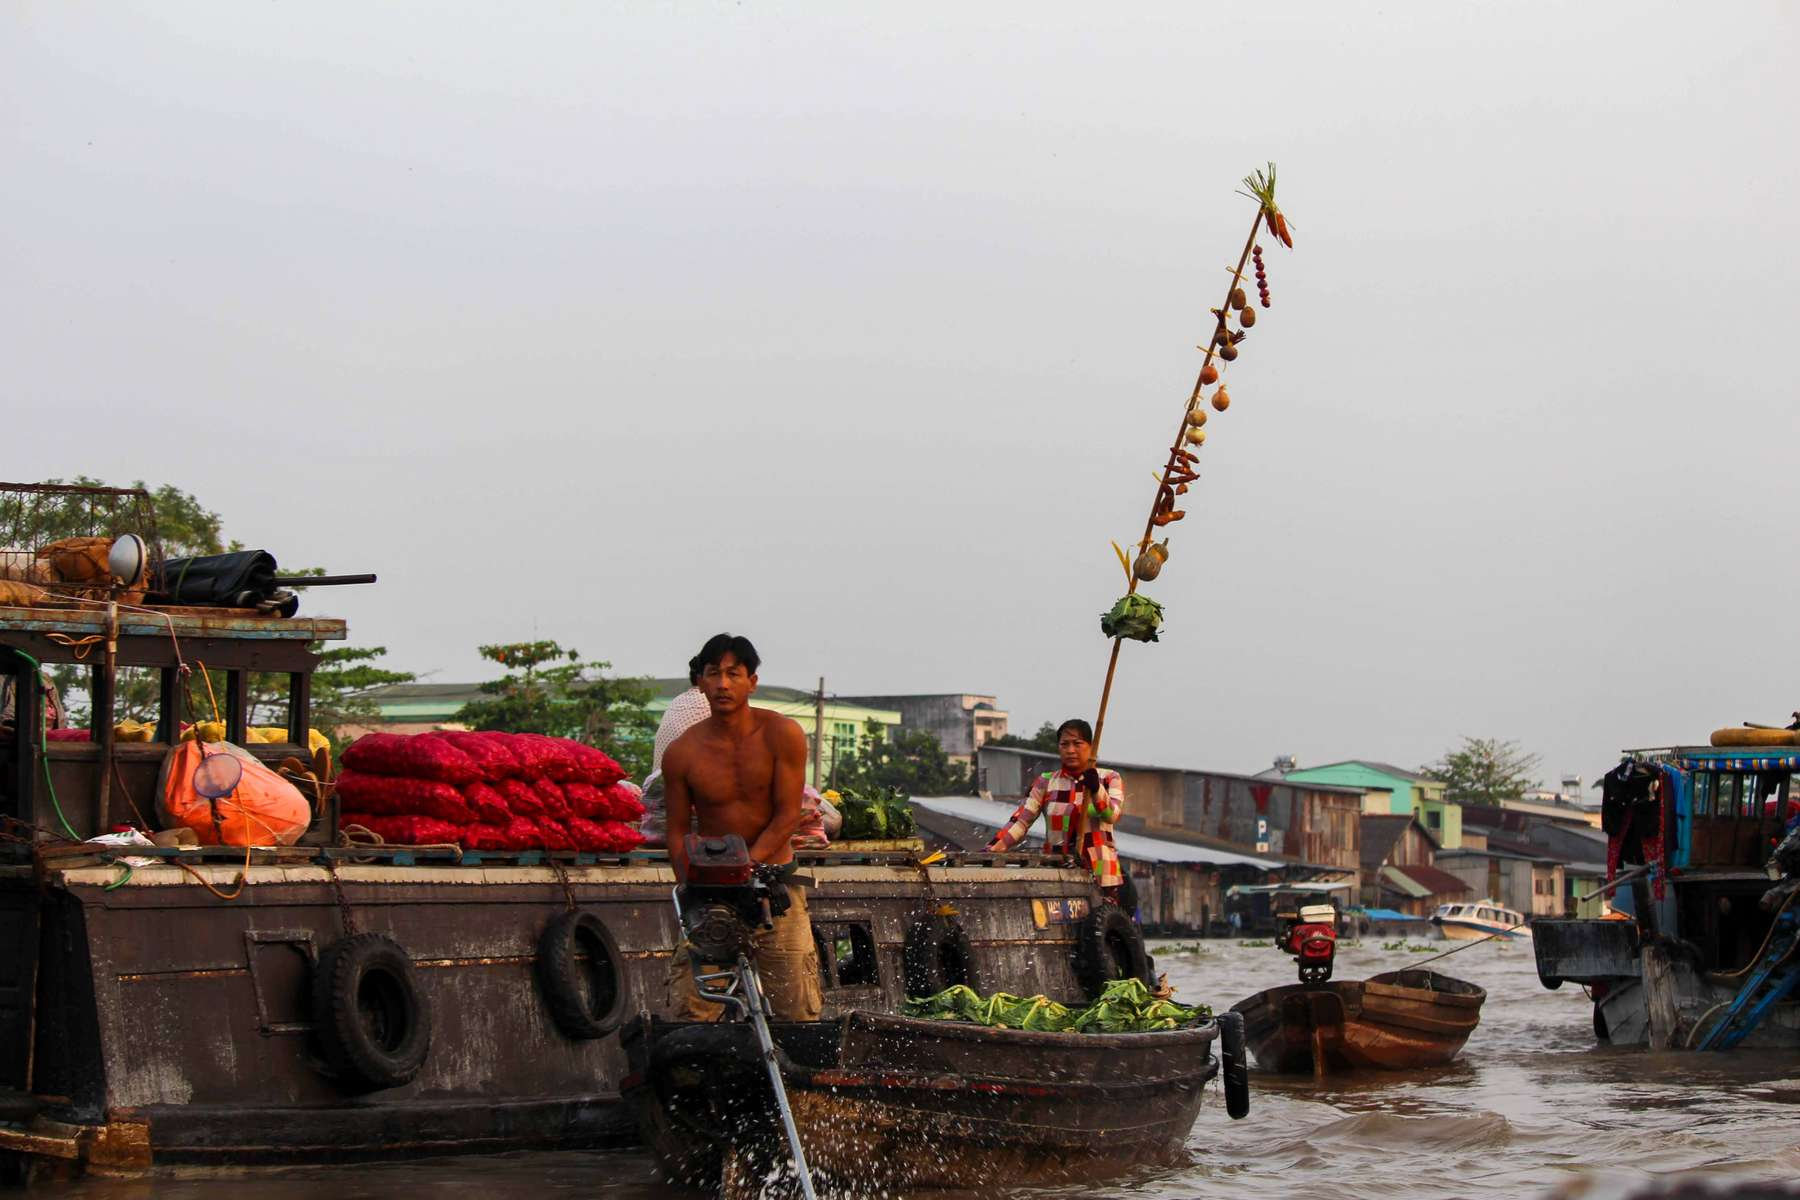
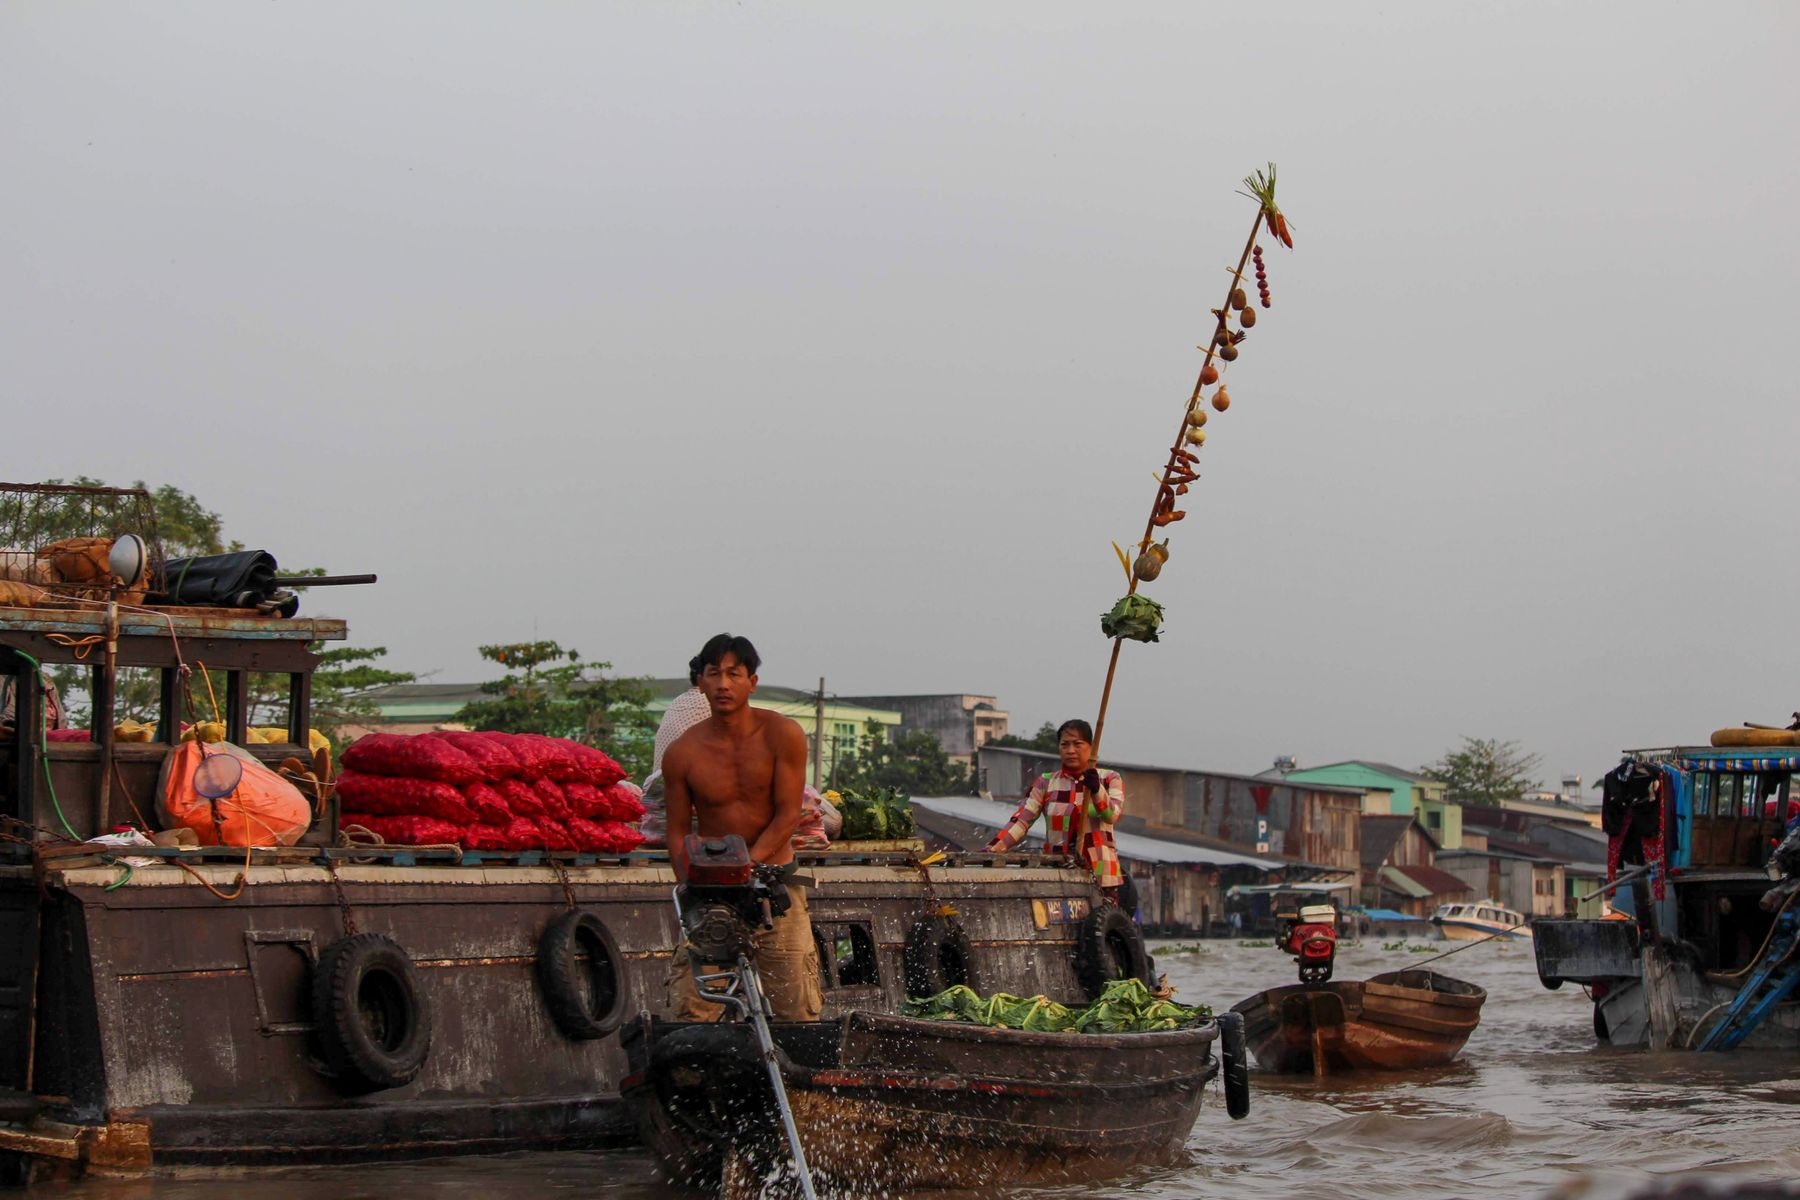
feat: update can tho

diff --git a/src/pages/asia/vietnam/southern-vietnam/can-tho.tsx b/src/pages/asia/vietnam/southern-vietnam/can-tho.tsx
@@ -8,6 +8,7 @@ import translationFr from "../../../../locales/fr/asia/vietnam/southern-vietnam/
 import translationEn from "../../../../locales/en/asia/vietnam/southern-vietnam/can-tho.json"
 import { VietnamBlogLayout, VietnamHeadline } from "../../../../components/core/asia/vietnam/vietnam"
 import {
+  Covid,
   How,
   HowLong,
   HowMuch,
@@ -34,6 +35,15 @@ import { CanThoImages } from "../../../../components/images/asia/vietnam/souther
 import styled from "@emotion/styled"
 import { Title } from "../../../../components/core/title"
 import { Quote } from "../../../../components/core/quote"
+import { ApplicationContext } from "../../../../components/application"
+import { useContext } from "react"
+import { css } from "@emotion/react"
+import { GetYourGuideCard } from "../../../../components/core/get-your-guide"
+import { BookingGygCardContainer } from "../../../../components/layout/layout"
+import { BookingCard, BookingWarning } from "../../../../components/core/booking"
+import winterSpringColorsHouse from "../../../../images/asia/vietnam/southern-vietnam/can-tho/winter-spring-colors-house.jpg"
+import queenieHouse from "../../../../images/asia/vietnam/southern-vietnam/can-tho/queenie-house.jpg"
+import greenVillageMekong from "../../../../images/asia/vietnam/southern-vietnam/can-tho/green-village-mekong.jpg"
 
 const namespace = "asia/vietnam/southern-vietnam/can-tho"
 const id = "can-tho"
@@ -45,12 +55,14 @@ const InsideQuote = styled.p`
 `
 
 const IndexPage: React.FunctionComponent<PageProps> = ({ location }) => {
+  const { covid } = useContext(ApplicationContext)
   const { t, i18n } = useCustomTranslation([namespace, "common"])
   const title = t(`common:country.vietnam.card.${id}`)
   return (
     <>
       <SEO
         title={title}
+        fullTitle={t("full-title")}
         socialNetworkDescription={t("social-network-description")}
         googleDescription={t("google-description")}
         image={HomeImgUrl}
@@ -89,9 +101,89 @@ const IndexPage: React.FunctionComponent<PageProps> = ({ location }) => {
           <p>{t("how-much.part2")}</p>
           <p>{t("how-much.part3")}</p>
           <p>{t("how-much.part4")}</p>
+          <p>{t("how-much.part5")}</p>
+          <BookingGygCardContainer>
+            <GetYourGuideCard
+              to="h-chi-minh-ville-l272/circuit-de-2-jours-en-petit-groupe-au-delta-du-mkong-avec-t125249"
+              title={
+                i18n.languageCode === "fr"
+                  ? "Excursion de 2 jours dans le delta du Mékong et le marché flottant"
+                  : "Mekong Delta and Floating Market 2-Day Small Group Tour"
+              }
+              rating={4.2}
+              image="https://cdn.getyourguide.com/img/tour/5e58ba1e4b64e.jpeg/38"
+              price={96}
+              duration={{ value: 2, unit: "day" }}
+              groupSize="small"
+            />
+            <GetYourGuideCard
+              to="h-chi-minh-ville-l272/march-flottant-de-cai-rang-et-delta-du-mkong-2-jours-t111085"
+              title={
+                i18n.languageCode === "fr"
+                  ? "Marché flottant de Cai Rang et delta du Mékong"
+                  : "Cai Rang Floating Market and Mekong Delta"
+              }
+              rating={4.1}
+              image="https://cdn.getyourguide.com/img/tour/59d75898331b0.jpeg/38"
+              certified
+              price={54}
+              duration={{ value: 2, unit: "day" }}
+            />
+            <GetYourGuideCard
+              to="h-chi-minh-ville-l272/depuis-h-chi-minh-3-jours-du-delta-du-mkong-au-cambodge-t111100"
+              title={
+                i18n.languageCode === "fr"
+                  ? "Depuis Hô-Chi-Minh-Ville : 3 jours dans le delta du Mékong"
+                  : "Mekong Delta: 3-Day 2-Night with Phnom Penh Exit, Cambodia"
+              }
+              rating={4.3}
+              certified
+              image="https://cdn.getyourguide.com/img/tour/595e01c8d9aed.jpeg/38"
+              price={112}
+              duration={{ value: 3, unit: "day" }}
+            />
+          </BookingGygCardContainer>
+          <p
+            css={css`
+              margin-bottom: 1.45rem;
+            `}
+          >
+            {t("how-much.part6")}
+          </p>
+          {covid && <Covid>{t("how-much.part7")}</Covid>}
         </HowMuch>
         <WhereToStay>
           <p>{t("where-to-stay.part1")}</p>
+          <BookingGygCardContainer>
+            <BookingCard
+              hotel="vn/winter-spring-colors-house-can-tho"
+              title="Winter Spring Colors House"
+              image={winterSpringColorsHouse}
+              note="9,3"
+              price={10}
+              people={2}
+              kind="low-cost"
+            />
+            <BookingCard
+              hotel="vn/queenie-house"
+              title="Queenie House"
+              image={queenieHouse}
+              note="9,6"
+              price={18}
+              people={2}
+              kind="standard"
+            />
+            <BookingCard
+              hotel="vn/green-village-mekong"
+              title="Green Village Mekong"
+              image={greenVillageMekong}
+              note="9,4"
+              price={31}
+              people={2}
+              kind="standard"
+            />
+          </BookingGygCardContainer>
+          <BookingWarning />
           <p>{t("where-to-stay.part2")}</p>
           <p>{t("where-to-stay.part3")}</p>
         </WhereToStay>

diff --git a/src/components/images/asia/vietnam/southern-vietnam/can-tho.tsx b/src/components/images/asia/vietnam/southern-vietnam/can-tho.tsx
@@ -95,7 +95,7 @@ export const CanThoImages: React.FunctionComponent<ExtraImageProps & { image: ke
       }
       floatingMarket4: file(relativePath: { eq: "asia/vietnam/southern-vietnam/can-tho/floating-market4.jpg" }) {
         childImageSharp {
-          fluid(maxWidth: 1200, quality: 70, srcSetBreakpoints: [600]) {
+          fluid(maxWidth: 1200, quality: 60, srcSetBreakpoints: [600]) {
             ...GatsbyImageSharpFluid
           }
         }
@@ -123,7 +123,7 @@ export const CanThoImages: React.FunctionComponent<ExtraImageProps & { image: ke
       }
       floatingMarket8: file(relativePath: { eq: "asia/vietnam/southern-vietnam/can-tho/floating-market8.jpg" }) {
         childImageSharp {
-          fluid(maxWidth: 1200, quality: 70, srcSetBreakpoints: [600]) {
+          fluid(maxWidth: 1200, quality: 60, srcSetBreakpoints: [600]) {
             ...GatsbyImageSharpFluid
           }
         }
@@ -137,7 +137,7 @@ export const CanThoImages: React.FunctionComponent<ExtraImageProps & { image: ke
       }
       floatingMarket10: file(relativePath: { eq: "asia/vietnam/southern-vietnam/can-tho/floating-market10.jpg" }) {
         childImageSharp {
-          fluid(maxWidth: 1200, quality: 70, srcSetBreakpoints: [600]) {
+          fluid(maxWidth: 1200, quality: 80, srcSetBreakpoints: [600]) {
             ...GatsbyImageSharpFluid
           }
         }
